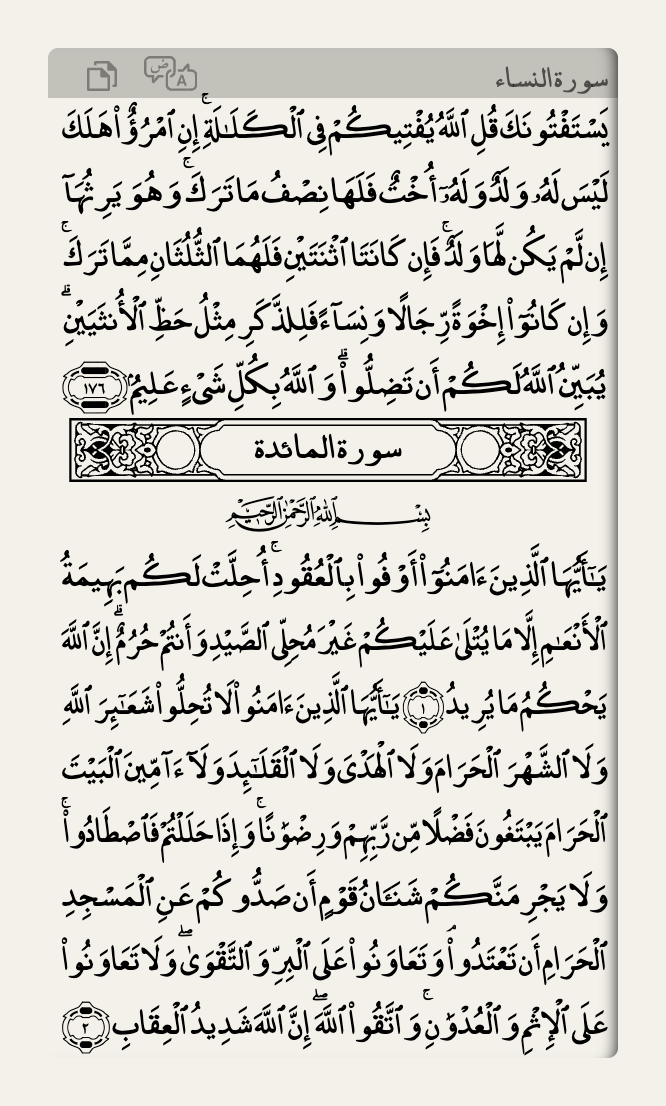
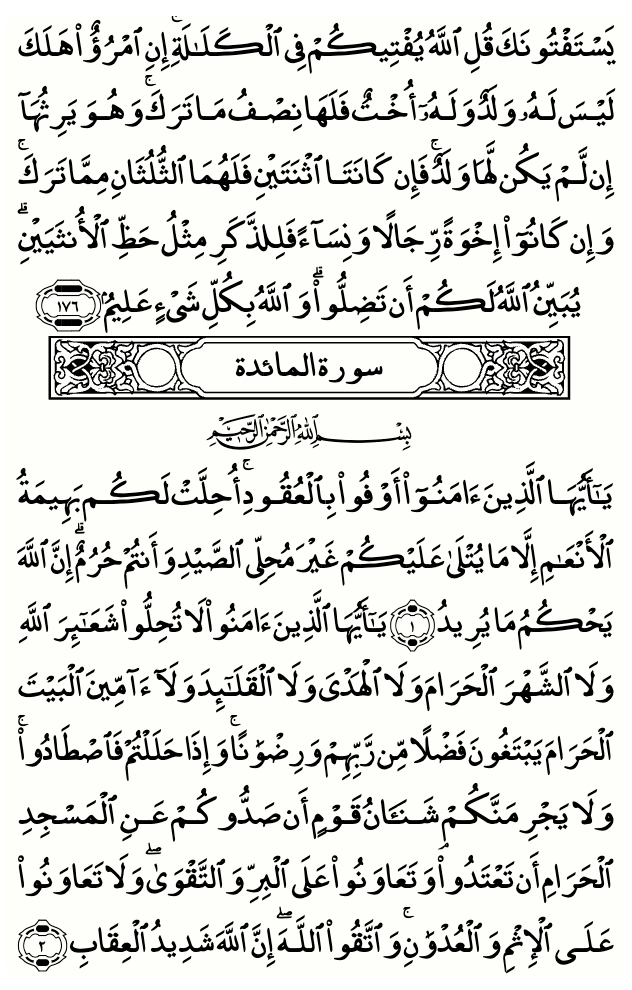
Retake demo screenshots and make headless mode drop the gutter shadow too
headless="true" only hid the header before, leaving the inset page-gutter
box-shadow on multiline renders; now styleMultilineTag() skips it as well
so a headless render has no chrome at all. Document the highlight/error
README section and retake all demo/img screenshots tightly cropped to
their actual content, with the page="106" comparison shots rendered
headless so they line up fairly against the plain printed-page scan.

diff --git a/src/quran-madina-html.js b/src/quran-madina-html.js
@@ -449,9 +449,10 @@
   // Line layout helpers (stretch/center, spacers, structural line starts)
   // ==========================================================================
 
-  function styleMultilineTag(tag, page){
+  function styleMultilineTag(tag, page, headless){
     // Apply the shared block-level chrome to the host tag for a multiline render: font, page-fitting
-    // width, and the inset "gutter" shadow whose side depends on the page parity (odd = right page).
+    // width, and (unless headless) the inset "gutter" shadow whose side depends on the page parity
+    // (odd = right page) - headless means no chrome at all, not just no header.
     tag.style = "display:block;";
     tag.style.setProperty('font-family', madina_data.font_family, '');
     tag.style.setProperty('font-size', madina_data.font_size+"px", '');
@@ -459,7 +460,9 @@
       tag.style.setProperty('line-height', madina_data.font_size*2+"px", '');
     }
     tag.style.width = (madina_data.line_width+10)+"px";
-    tag.style.setProperty('box-shadow', 'inset '+(page%2==1?"":"-")+'8px 0 7px -7px #333', '');
+    if(!headless){
+      tag.style.setProperty('box-shadow', 'inset '+(page%2==1?"":"-")+'8px 0 7px -7px #333', '');
+    }
   }
   function applyLineStyle(line, stretch){
     // A stretch >= 0 is a scaleX factor filling the line; -1 means center this line instead.
@@ -718,7 +721,7 @@
     tag.classList.toggle(`${name}-inline`, !multiline && !noQuotes);
     if(multiline){
       let start_page = parseInt(groups[0].key.split(':')[0], 10); // page of the first visible line
-      styleMultilineTag(tag, start_page);
+      styleMultilineTag(tag, start_page, headless);
       if(!headless){
         tag.appendChild(buildHeader(madina_data.suras[groups[0].parts[0].sura].name));
       }
@@ -1072,7 +1075,7 @@
                 // popup covers them too). quotes="no" opts out of this.
                 tag.classList.toggle(`${name}-inline`, !multiline && !noQuotes);
                 if(multiline){
-                  styleMultilineTag(tag, page);
+                  styleMultilineTag(tag, page, headless);
                   if(!headless){
                     tag.appendChild(buildHeader(madina_data.suras[sura_from].name));
                   }

diff --git a/README.md b/README.md
@@ -35,7 +35,7 @@ Page 106, rendered by the library next to a scan of the actual printed page:
 <table>
 <tr>
 <td align="center"><img src="demo/img/p106-image.JPG" width="190" alt="Scanned Madina Mushaf page 106"><br/>Printed Madina Mushaf</td>
-<td align="center"><img src="demo/img/p106-hafs.png" width="190" alt="quran-madina-html rendering of page 106"><br/><code>&lt;quran-madina-html page="106"&gt;</code></td>
+<td align="center"><img src="demo/img/p106-hafs.png" width="190" alt="quran-madina-html rendering of page 106"><br/><code>&lt;quran-madina-html page="106" headless="true"&gt;</code></td>
 </tr>
 </table>
 
@@ -126,6 +126,18 @@ counts as words 10-13
 </td>
 </tr>
 </table>
+
+### Highlighting words
+
+`highlight` (soft yellow) and `error` (soft red) mark a word range — same 1-based, inclusive
+format as `words` — on top of whatever is being shown. Unlike `words`, they work with or without
+a `words` selection, and even on a full `page` render:
+
+```html
+<quran-madina-html sura="1" aya="1" highlight="2-3"></quran-madina-html>
+```
+
+<img src="demo/img/highlight.png" width="260" alt="highlight attribute marking words 2-3 of Al-Fatiha's first aya">
 
 ## Getting Started
 
